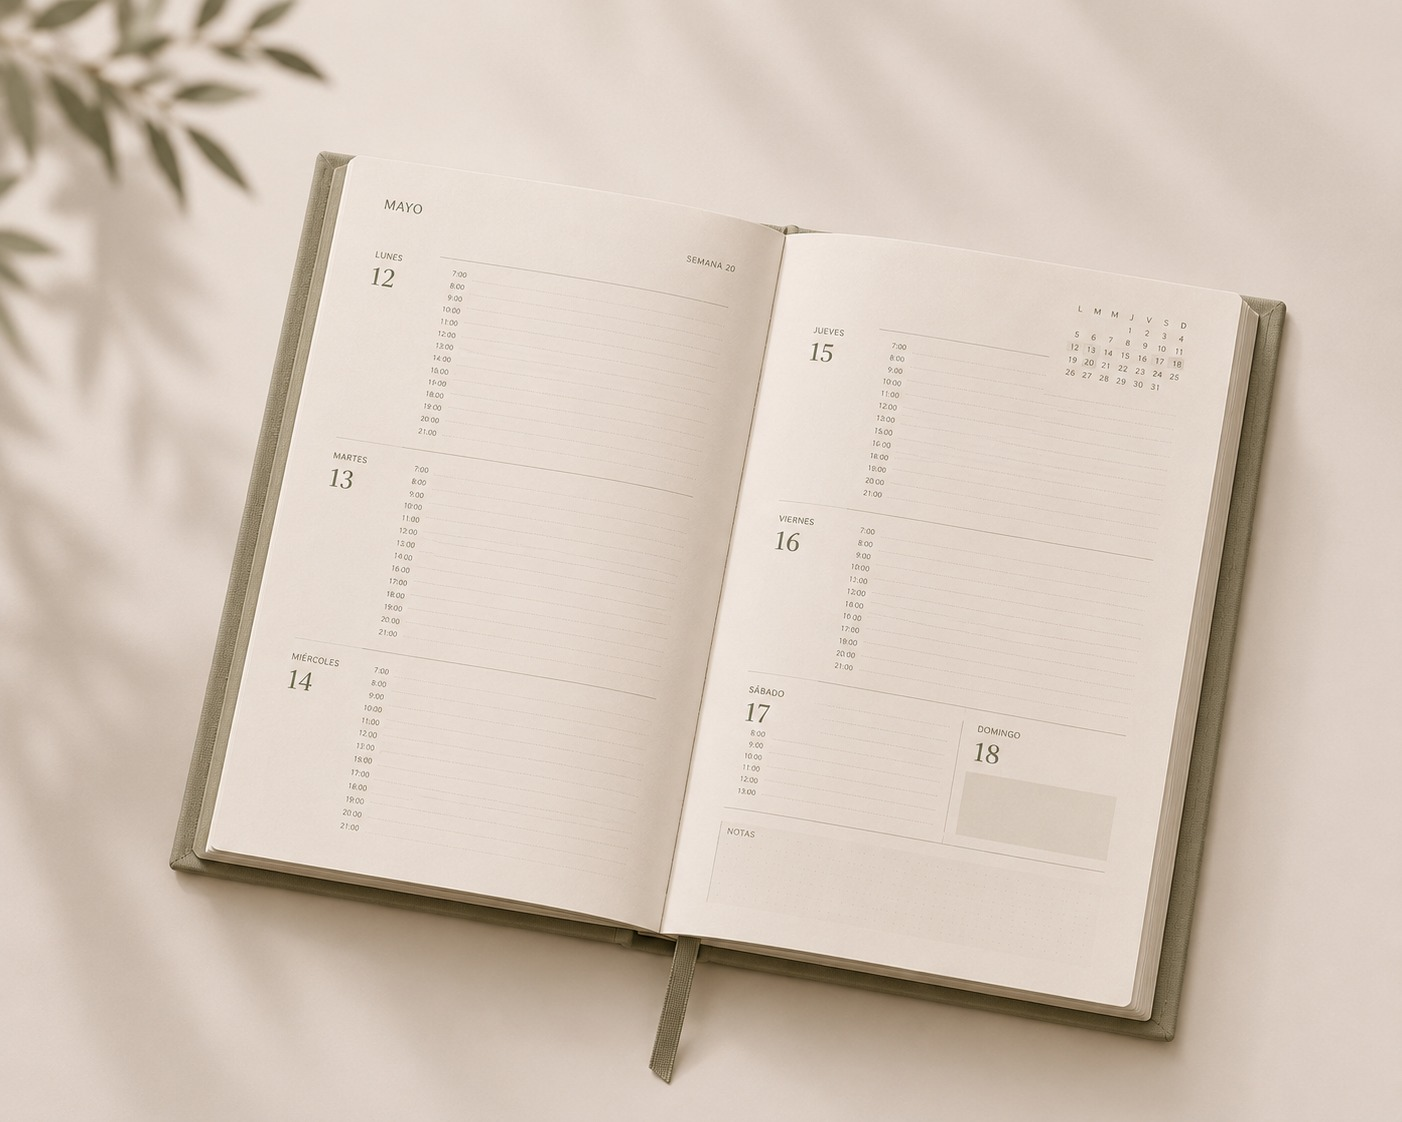
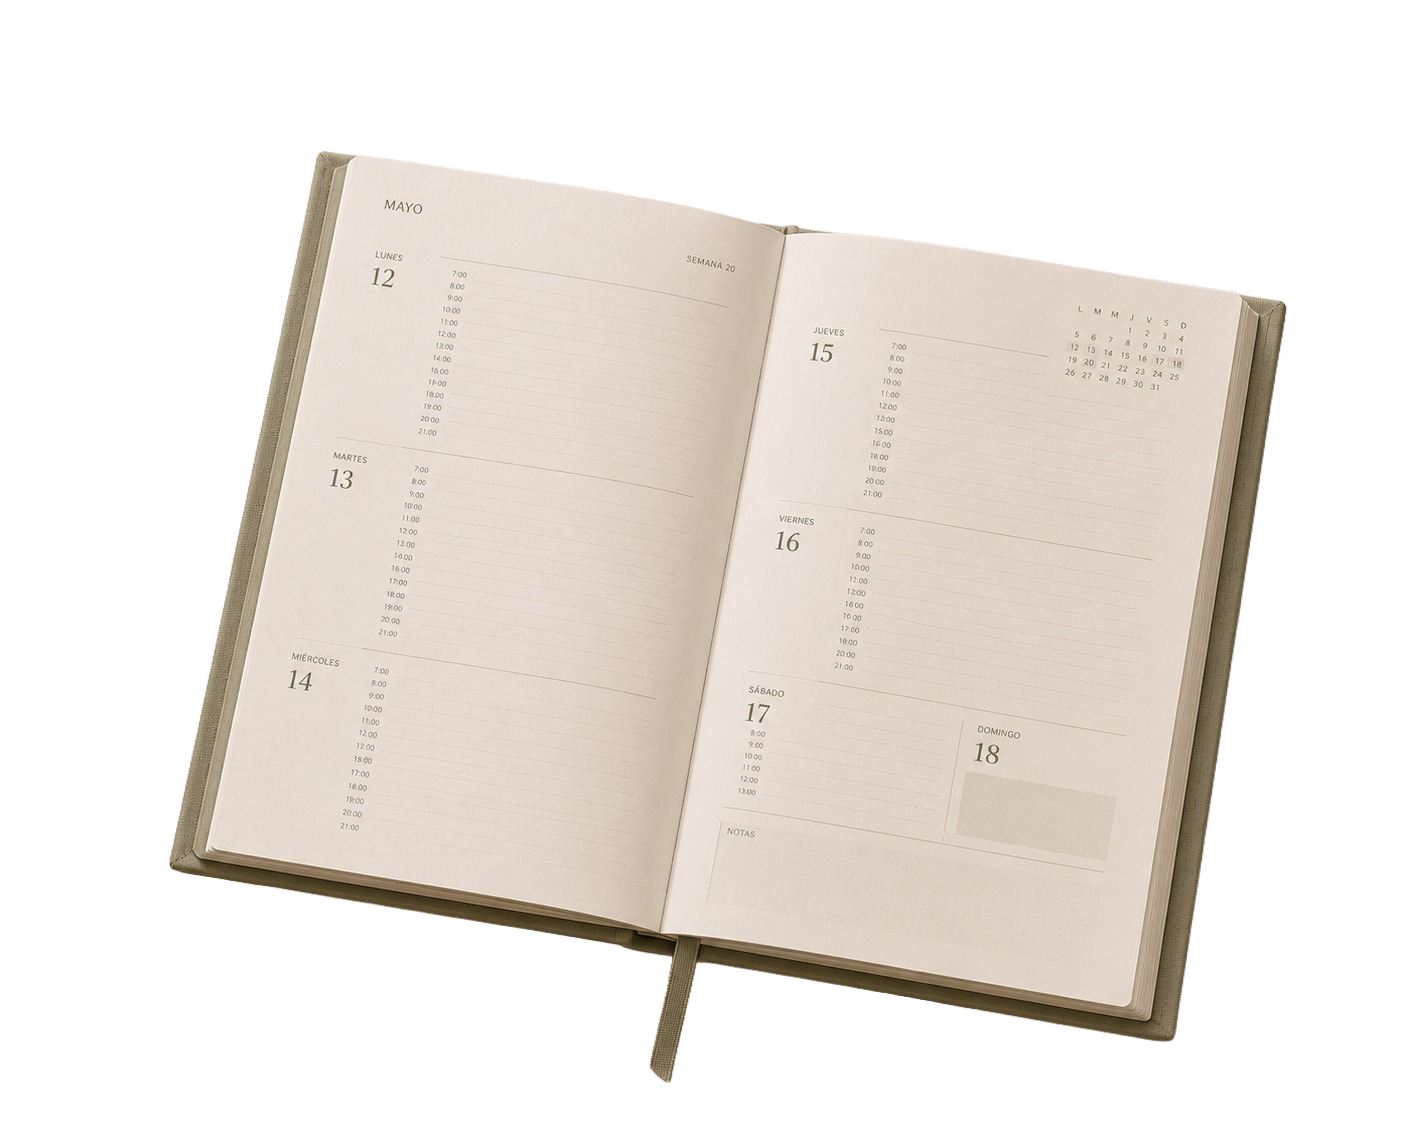
cambio texto

diff --git a/src/components/landing/Coaching.tsx b/src/components/landing/Coaching.tsx
@@ -98,9 +98,9 @@ export function Coaching() {
         <div className="mx-auto mt-12 max-w-3xl rounded-[2rem] bg-background/70 p-8 text-center shadow-[var(--shadow-soft)] sm:p-10">
           <p className="text-lg leading-relaxed text-foreground/80">
             Muchas veces creemos que nos falta información. Pero la mayoría ya sabe qué debería hacer
-            para sentirse mejor.{" "}
+            para sentirse mejor.{" "} Lo difícil no es saberlo,{" "}
             <span className="font-semibold text-secondary">
-              Lo difícil no es saberlo, sino llevarlo a la práctica y sostenerlo en el tiempo.
+              sino llevarlo a la práctica y sostenerlo en el tiempo.
             </span>
           </p>
           <p className="mt-5 text-base leading-relaxed text-foreground/70">
@@ -108,10 +108,7 @@ export function Coaching() {
             a generar cambios reales y duraderos, trabajando sobre todos los pilares del bienestar,
             tu energía, tus emociones, tus pensamientos, tus relaciones, tus hábitos y tu propósito.
           </p>
-          <p className="mt-5 text-base leading-relaxed text-foreground/70">
-            Trabajamos sobre los distintos pilares del bienestar porque la salud va mucho más allá de
-            la alimentación o el ejercicio.
-          </p>
+     
         </div>
 
         {/* Proceso con cards y flechas orgánicas */}

diff --git a/src/components/landing/Contact.tsx b/src/components/landing/Contact.tsx
@@ -27,7 +27,7 @@ export function Contact() {
               width={960}
               height={1280}
               loading="lazy"
-              className="absolute inset-0 h-full w-full object-cover object-top"
+              className="absolute inset-0 h-[440px] w-full object-cover object-top"
             />
           </div>
           <div className="p-9 sm:p-12">
